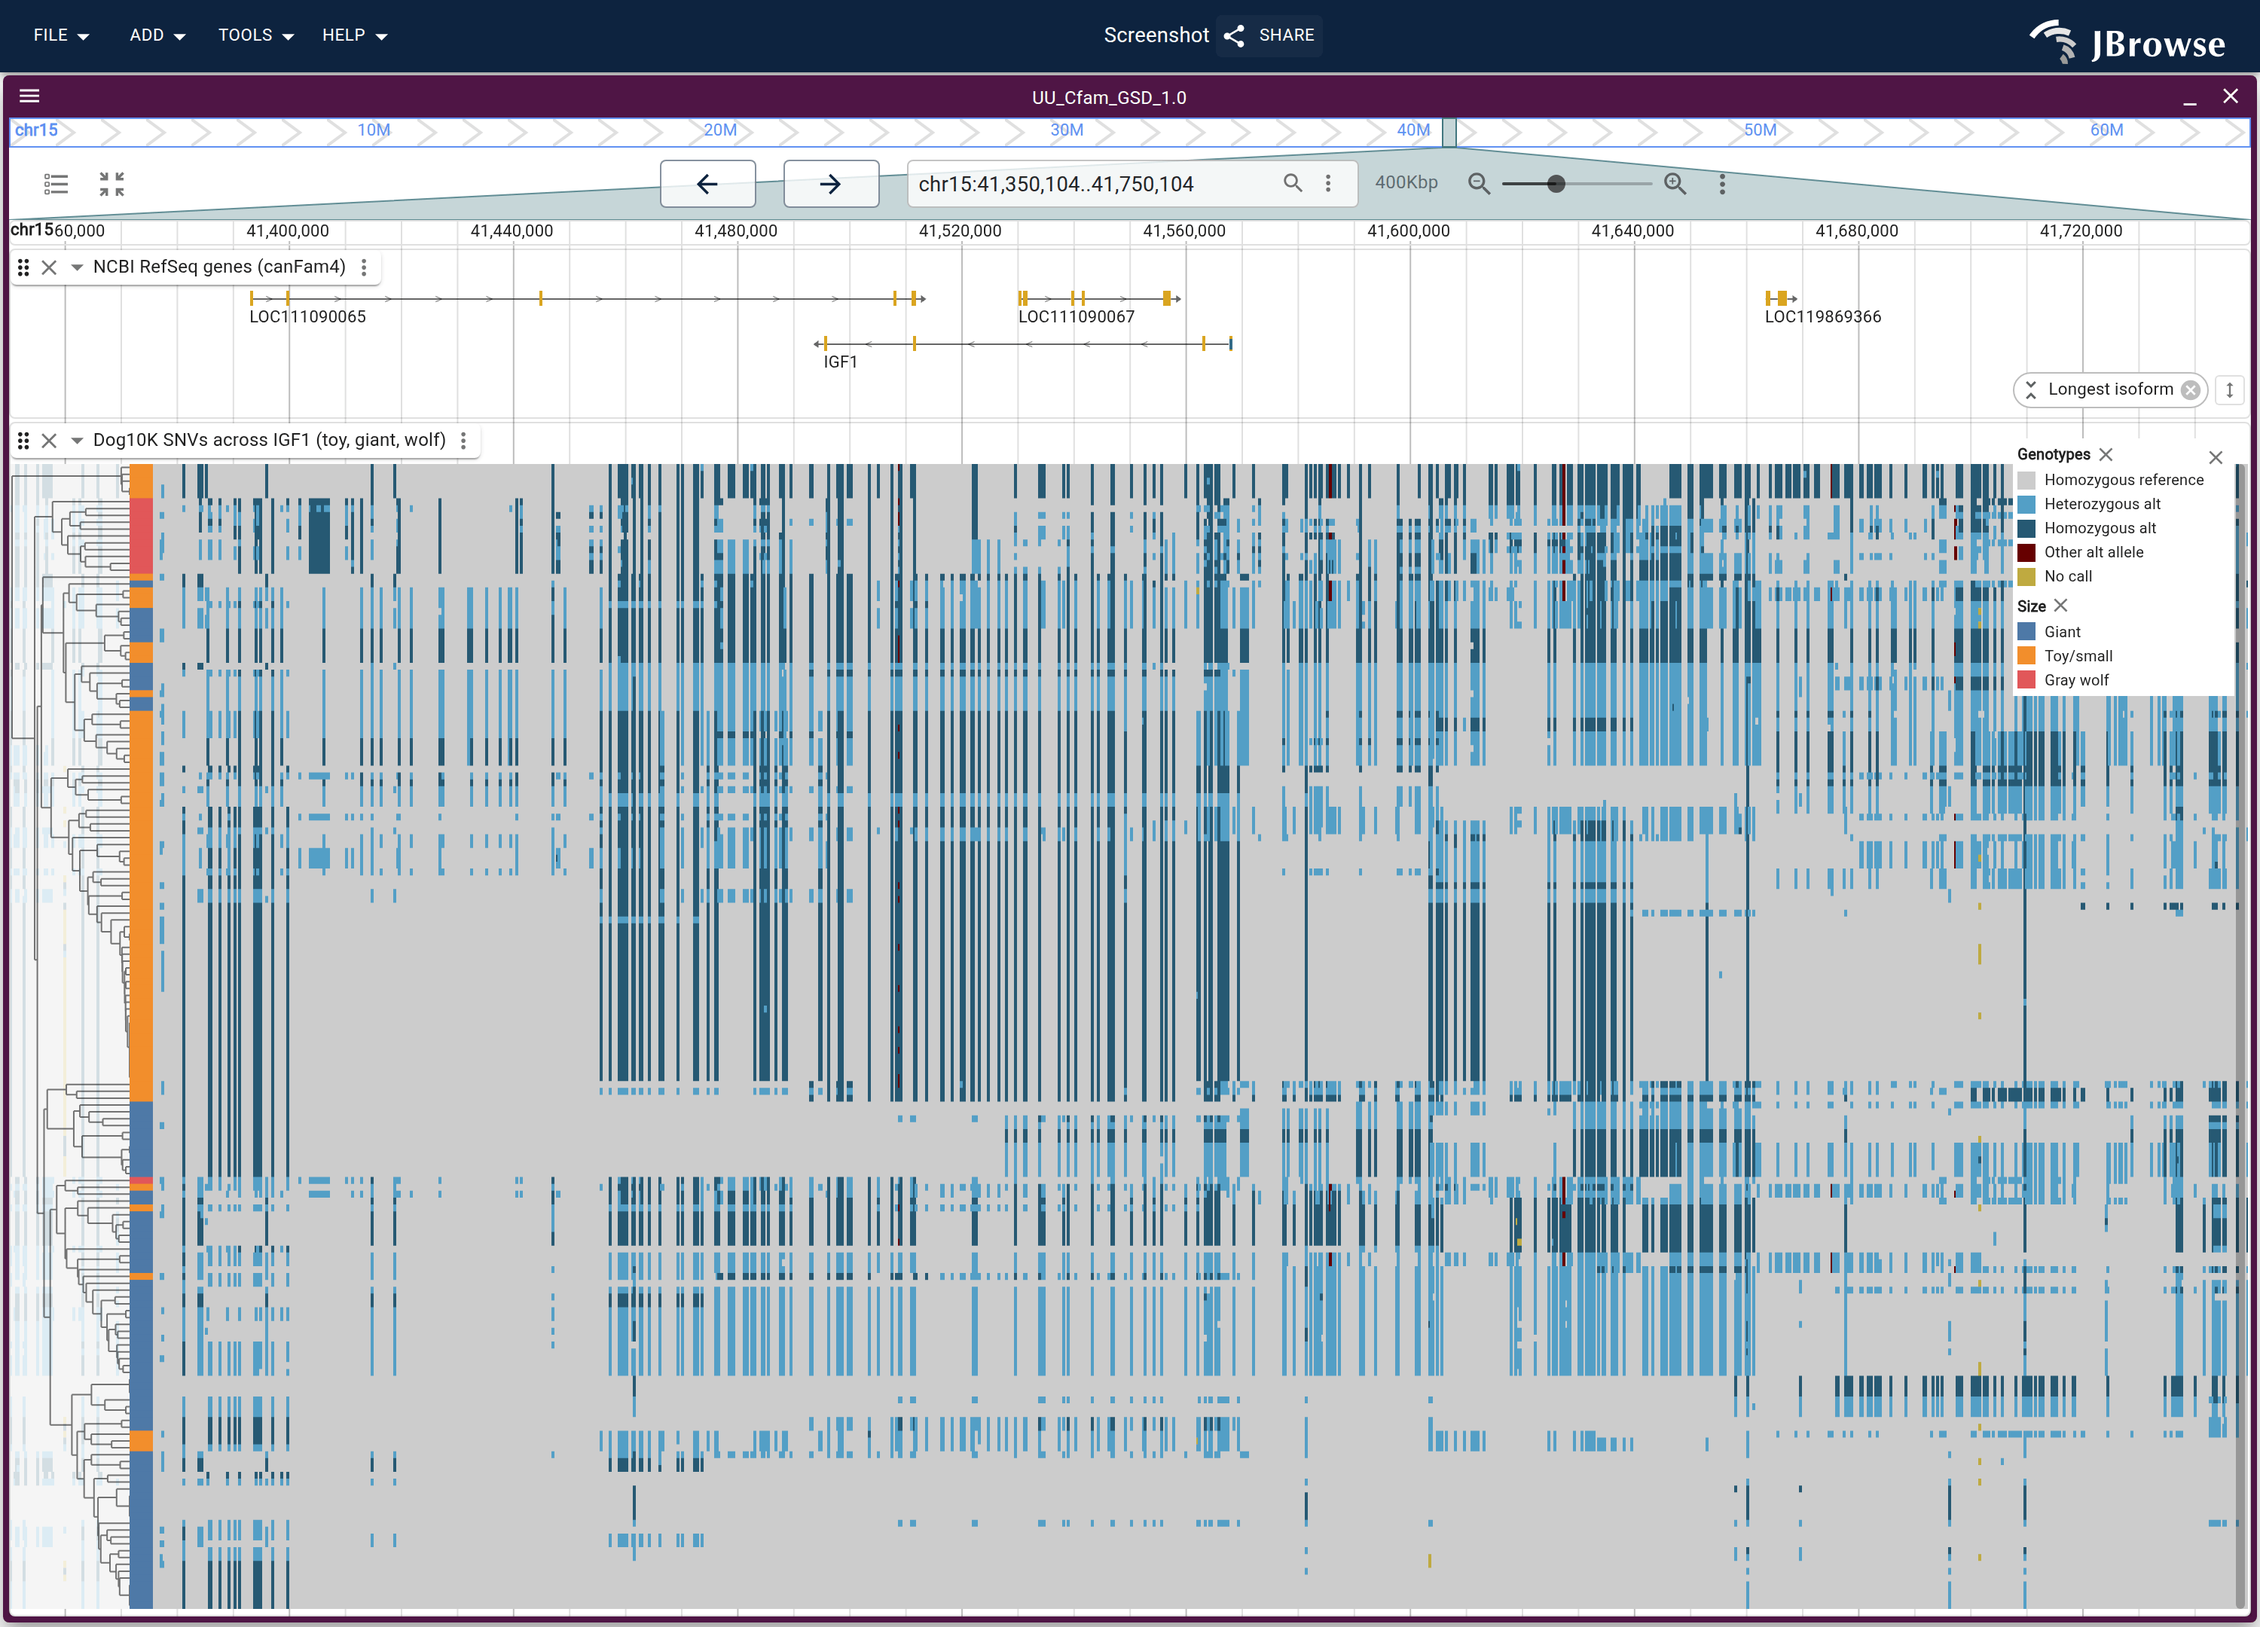
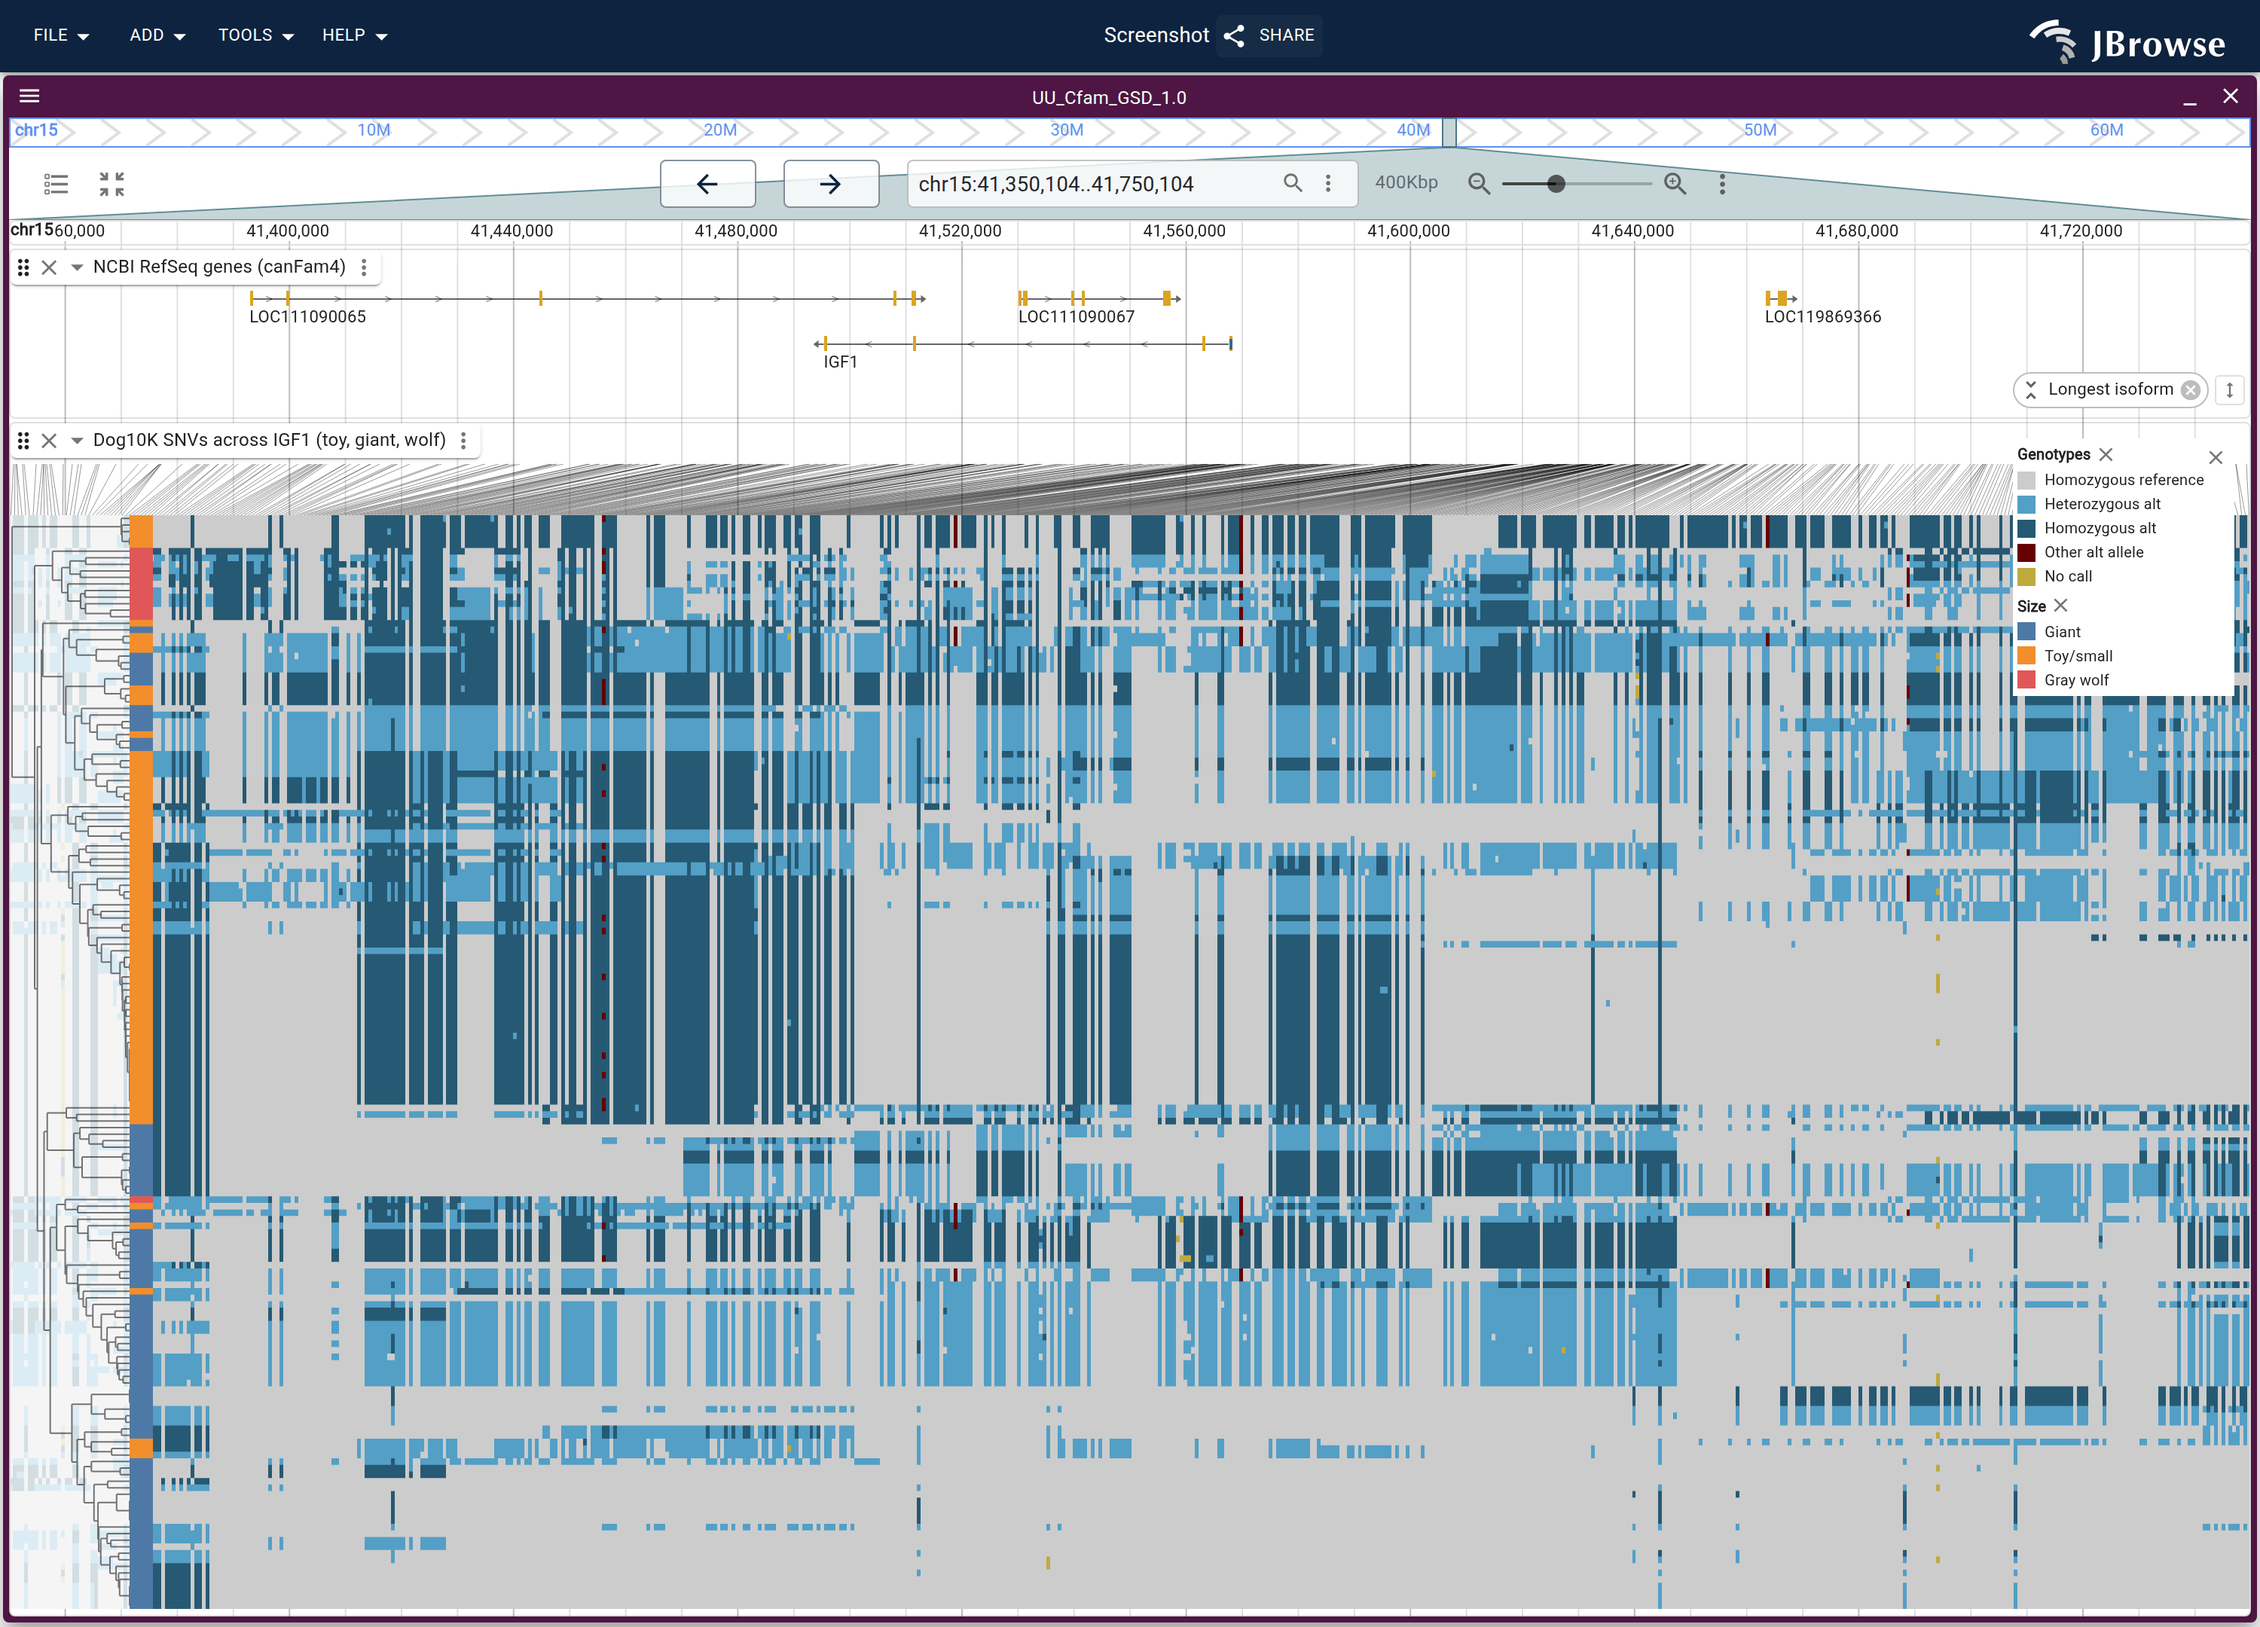
docs(dog10k): matrix the IGF1 haplotype, widen DENR, name the SLC28A3 no-call
igf1: over 400 kb the records are mostly gaps between records, so the shared
haplotype read as speckle. Even columns make it a block.

denr: the window now holds all of DENR, and the connector band is tall enough
to say which column is which repeat.

slc28a3: the white stripe is one 5 kb window every canid reads below two
copies, which the build script drops on purpose. Not the RepeatMasker dropout
that caused the CYP1A2 gap (44% masked, in line with its neighbours). The
figure says so now, since a caption did not stop it reading as a glitch.

Claude-Session: https://claude.ai/code/session_011xQEbTekTLMTSWopEJ2txk

diff --git a/website/scripts/specs/dog10k.ts b/website/scripts/specs/dog10k.ts
@@ -499,7 +499,14 @@ export const dog10kSpecs: ScreenshotSpec[] = [
     name: 'dog10k-denr-sine-deletions',
     url: lgvSession(DOG_CONFIG, {
       assembly: 'UU_Cfam_GSD_1.0',
-      loc: 'chr26:6,929,500-6,936,000',
+      // All of DENR (chr26:6,929,118-6,943,861 in canFam4 RefSeq) plus flanks,
+      // per review ("need to zoom out more"). The old 6.5 kb window cut the gene
+      // at both edges, so the transcript rows ran off both sides and the
+      // connector zone pointed into a gene the reader could not see the shape
+      // of. Zooming out costs nothing here: the track holds exactly the two SINE
+      // records the build script selected, so the matrix still has two columns
+      // however wide the window is.
+      loc: 'chr26:6,927,500-6,945,500',
       tracks: [
         {
           trackId: 'canFam4_ncbi_refseq',
@@ -513,6 +520,13 @@ export const dog10kSpecs: ScreenshotSpec[] = [
           // against the track's own bottom border, which no viewportHeight can
           // fix -- the clipping is inside the track box, not below the fold.
           height: 730,
+          // The two columns are laid out by feature index, so the only thing
+          // saying which repeat is which is the band of lines tying each column
+          // back to its position in the gene above. At the 20px default that
+          // band is a sliver; over a whole-gene window it has to carry a real
+          // diagonal, which is what makes the left column the first intron's
+          // repeat rather than just the left half of a panel.
+          lineZoneHeight: 60,
           layout: DENR_LAYOUT,
           // Draw reference alleles instead of filling the lane grey. The default
           // 'skip' paints the whole background REFERENCE_COLOR and omits
@@ -774,15 +788,59 @@ export const dog10kSpecs: ScreenshotSpec[] = [
     settleMs: 8000,
     // gene track, two 300px lanes, their headers, and the copy-number key
     viewportHeight: 965,
+    // The white stripe, named. It is one 5 kb window, chr1:75,575,000-75,580,000,
+    // and it is unpainted on purpose: build_dog10k_slc28a3_cn.sh drops any window
+    // whose median across the whole collection sits below two copies, because a
+    // window every canid reads low is measuring the reference rather than any
+    // dog (the same rule suppresses four blue stripes that would otherwise run
+    // down the collection lane at the weight of the duplication). This one is
+    // where the duplication's left breakpoint falls (ELEMENT_START 75,578,115),
+    // which is why it reads low. Review has now read the gap as a rendering
+    // glitch twice, once here and once on the CYP1A2 figure, and a caption did
+    // not stop it — so the frame says it.
+    annotations: [
+      {
+        type: 'text',
+        anchor: {
+          track: 'canFam4_ncbi_refseq',
+          locus: 'chr1:75,553,000',
+          fracY: 0.45,
+        },
+        text: 'no call: every canid reads low here',
+        fontSize: 17,
+        maxWidth: 300,
+      },
+      {
+        type: 'arrow',
+        fromAnchor: {
+          track: 'canFam4_ncbi_refseq',
+          locus: 'chr1:75,563,000',
+          fracY: 0.7,
+        },
+        anchor: {
+          track: 'dog10k_slc28a3_breed_cn',
+          locus: 'chr1:75,577,500',
+          fracY: 0,
+          dy: 40,
+        },
+      },
+    ],
   },
 
   // The IGF1 body-size haplotype, drawn as a clustered genotype matrix over 167
   // canids: every animal of fourteen toy/small breeds, eleven giant breeds, and
   // the twelve Greek gray wolves. Built by scripts/build_dog10k_igf1.sh.
   //
-  // Position space rather than the matrix display. The matrix lays its columns
-  // out by feature index, so a haplotype boundary lands at a column number
-  // rather than at a coordinate; here it can be read against the gene track.
+  // THE MATRIX DISPLAY, per review ("consider using the 'matrix' mode for this.
+  // hard to see the overarching pattern from snps"). In position space the
+  // records sit where they are, which over 400 kb means most of the panel is the
+  // gaps between them and the shared haplotype reads as speckle rather than as a
+  // block. One column per record instead gives every SNV the same width, so a
+  // set of animals carrying the same alleles is a solid band. The cost is that a
+  // boundary now lands at a column rather than at a coordinate, which is what
+  // the connector band above the rows is for. Only a little above its 20px
+  // default: with hundreds of records no single line can be followed, and a tall
+  // band is just a grey wedge over the rows the figure is about.
   //
   // `runClustering` orders the rows by genotype similarity. The size swatch
   // comes from the samples TSV and is applied afterwards, so the row order and
@@ -801,8 +859,9 @@ export const dog10kSpecs: ScreenshotSpec[] = [
         },
         {
           trackId: 'dog10k_igf1_haplotype',
-          type: 'LinearMultiSampleVariantDisplay',
+          type: 'LinearMultiSampleVariantMatrixDisplay',
           height: 760,
+          lineZoneHeight: 34,
           runClustering: true,
           colorBy: 'size',
         },

diff --git a/website/docs/tutorials/dog10k_svs.md b/website/docs/tutorials/dog10k_svs.md
@@ -164,7 +164,7 @@ absent in that dog. Dimorphic SINE and LINE-1 variants like these make up over
 45% of all deletions in the callset, which is why a dog SV panel looks nothing
 like a SNV panel.
 
-<Figure caption="Two SINEC2A1 deletions in adjacent DENR introns, one column each, every animal of every breed in the panel. Grey is homozygous reference, meaning the repeat is present on both chromosomes; light blue heterozygous; dark blue homozygous for the deletion, meaning the repeat is gone. The Mastiff-clade breeds carry both repeats, the Labrador Retrievers have lost both, and the Greek wolves have lost the left one entirely while a third of them still carry the right one." src="/img/dog10k-denr-sine-deletions.png" />
+<Figure caption="Two SINEC2A1 deletions in adjacent DENR introns, one column each, every animal of every breed in the panel. The window holds the whole gene and the lines above the matrix tie each column back to the intron it sits in. Grey is homozygous reference, meaning the repeat is present on both chromosomes; light blue heterozygous; dark blue homozygous for the deletion, meaning the repeat is gone. The Mastiff-clade breeds carry both repeats, the Labrador Retrievers have lost both, and the Greek wolves have lost the left one entirely while a third of them still carry the right one." src="/img/dog10k-denr-sine-deletions.png" />
 
 This contrasts with the Collie eye anomaly figure. That deletion was long, rare,
 and confined to one clade. These are short, common, and it is the reference that
@@ -201,7 +201,7 @@ ratio of a dog's depth over the element to its depth over the flanks is a copy
 number for all 1,987 canids. [The CYP1A2 tutorial](/docs/tutorials/dog10k_lof)
 builds that estimate and validates it against read depth.
 
-<Figure caption="Copy number over SLC28A3 from callset depth, each 5 kb window colored by its rounded call, grey being two copies. Above, every Grand Basset Griffon Vendéen, Basset Hound and German Shepherd in the collection. Below, all 1,987 canids sorted by copy number over the duplication. Every GBGV carries it, three of the seven Basset Hounds carry it, and the collection lane is grey apart from the band at the top." src="/img/dog10k-slc28a3-copy-number.png" />
+<Figure caption="Copy number over SLC28A3 from callset depth, each 5 kb window colored by its rounded call, grey being two copies. Above, every Grand Basset Griffon Vendéen, Basset Hound and German Shepherd in the collection. Below, all 1,987 canids sorted by copy number over the duplication. Every GBGV carries it, three of the seven Basset Hounds carry it, and the collection lane is grey apart from the band at the top. The unpainted stripe is one window that every canid in the collection reads below two copies, which measures the reference rather than any dog, so the build script paints nothing there." src="/img/dog10k-slc28a3-copy-number.png" />
 
 The element runs wider than the gene, and its edges land where the SV callset
 puts a duplication. Under 5% of the collection carry it, which is why the lower

diff --git a/website/docs/tutorials/dog10k_selection.md b/website/docs/tutorials/dog10k_selection.md
@@ -117,7 +117,7 @@ sample table, so the two are independent.
 
 ## Reading it
 
-<Figure caption="SNVs across 400 kb at IGF1, one row per canid, clustered by genotype with size class as the sidebar swatch. The upper cluster is the toy and small breeds and the lower one the giant breeds; the block separating them begins and ends inside the window." src="/img/dog10k-igf1-haplotype.png" />
+<Figure caption="SNVs across 400 kb at IGF1 as a matrix, one row per canid and one column per variant, clustered by genotype with size class as the sidebar swatch. The upper cluster is the toy and small breeds and the lower one the giant breeds. Even column widths are what make the shared haplotype a solid block rather than speckle; the lines above the rows tie each column back to its position." src="/img/dog10k-igf1-haplotype.png" />
 
 The panel separates into two clusters that correspond to the size classes.
 
